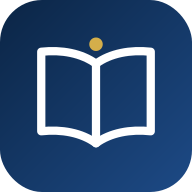
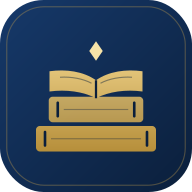
هوية «ليل الخليج»: خيط الذهب ونقش الورق، شعار الكتب، Cairo، معاينة الرابط، التنقل بين المبادئ
Claude-Session: https://claude.ai/code/session_016rQGvt25VEVtXhue9RVTd5

diff --git a/app.js b/app.js
@@ -35,7 +35,8 @@ const FONTS={
  naskh:{l:'نسخ',css:'"Noto Naskh Arabic"',u:''},
  amiri:{l:'أميري',css:'"Amiri"',u:'Amiri:wght@400;700'},
  scheh:{l:'شهرزاد',css:'"Scheherazade New"',u:'Scheherazade+New:wght@400;700'},
- plex:{l:'بلكس',css:'"IBM Plex Sans Arabic"',u:''},
+ cairo:{l:'القاهرة',css:'"Cairo"',u:''},
+ plex:{l:'بلكس',css:'"IBM Plex Sans Arabic"',u:'IBM+Plex+Sans+Arabic:wght@400;600'},
  kufi:{l:'كوفي',css:'"Noto Kufi Arabic"',u:'Noto+Kufi+Arabic:wght@400;600'},
  tajawal:{l:'تجوال',css:'"Tajawal"',u:'Tajawal:wght@400;700'}};
 function applyLook(){
@@ -50,6 +51,24 @@ function applyLook(){
   $('mename').textContent=S.name||'الإعدادات';
 }
 applyLook();
+
+// ---------- خيط الذهب (نقش السدو) ونقش الورق
+function sdUnit(){const dm=(cx,cy,r,ring)=>{const o=[];for(let x=cx-r;x<=cx+r;x++)for(let y=cy-r;y<=cy+r;y++){const d=Math.abs(x-cx)+Math.abs(y-cy);if(ring?d===r:d<=r)o.push([x,y]);}return o;};
+  let c=[];for(let x=0;x<24;x++)c.push(x%4<2?[x,0]:[x,15]);c=c.concat(dm(12,8,5,1),dm(12,8,3,1),[[12,8]]);
+  [3,21].forEach(cx=>c.push([cx,8],[cx-1,7],[cx-2,6],[cx-1,9],[cx-2,10],[cx+1,7],[cx+2,6],[cx+1,9],[cx+2,10]));return c.filter(p=>p[0]>=0&&p[0]<24);}
+let wid=0;
+function weave(host,cs){if(!host)return;const id='w'+(wid++),r=sdUnit().map(p=>`<rect x="${p[0]*cs+.6}" y="${p[1]*cs+.6}" width="${cs-1.2}" height="${cs-1.2}" fill="none" stroke="#C9A24B" stroke-width=".9"/>`).join('');
+  host.insertAdjacentHTML('afterbegin',`<svg class="weave" aria-hidden="true"><defs><pattern id="p${id}" width="${24*cs}" height="${16*cs}" patternUnits="userSpaceOnUse">${r}</pattern>
+   <linearGradient id="a${id}" x1="0" x2="1"><stop offset="0" stop-color="#fff"/><stop offset=".5" stop-color="#fff" stop-opacity=".7"/><stop offset="1" stop-color="#fff" stop-opacity=".32"/></linearGradient>
+   <linearGradient id="b${id}" x1="0" x2="1"><stop offset="0" stop-color="#fff" stop-opacity=".3"/><stop offset=".7" stop-color="#fff" stop-opacity=".16"/><stop offset="1" stop-color="#fff" stop-opacity=".45"/></linearGradient>
+   <linearGradient id="s${id}" x1="0" x2="1"><stop offset="0" stop-color="#FFE7A6" stop-opacity="0"/><stop offset=".5" stop-color="#FFE7A6" stop-opacity=".9"/><stop offset="1" stop-color="#FFE7A6" stop-opacity="0"/></linearGradient>
+   <mask id="m${id}" maskContentUnits="objectBoundingBox"><rect class="rev l" x="0" y="0" width=".5" height="1" fill="url(#a${id})"/><rect class="rev r" x=".5" y="0" width=".5" height="1" fill="url(#b${id})"/></mask></defs>
+   <g mask="url(#m${id})"><rect width="100%" height="100%" fill="url(#p${id})" opacity=".55"/></g><g mask="url(#m${id})"><rect class="shine" width="30%" height="100%" fill="url(#s${id})"/></g></svg>`);}
+function paper(){const cs=9,r=sdUnit().map(p=>`<rect class="t" x="${p[0]*cs}" y="${p[1]*cs}" width="${cs}" height="${cs}"/>`).join('');
+  document.body.insertAdjacentHTML('afterbegin',`<svg id="paper" aria-hidden="true"><defs><pattern id="pp" width="${24*cs}" height="${16*cs}" patternUnits="userSpaceOnUse">${r}</pattern></defs><g><rect width="100%" height="100%" fill="url(#pp)"/></g></svg>`);}
+paper();weave(document.querySelector('.appbar'),8);
+let wovenOnce=false;
+function playWeave(){if(wovenOnce)return;wovenOnce=true;document.querySelectorAll('.appbar,.hero').forEach(h=>{h.classList.remove('play');void h.offsetWidth;h.classList.add('play');});}
 // ---------- lock
 async function sha(t){const b=await crypto.subtle.digest('SHA-256',new TextEncoder().encode('mabadi:'+t));return [...new Uint8Array(b)].map(x=>x.toString(16).padStart(2,'0')).join('');}
 function lockScreen(){
@@ -72,8 +91,8 @@ let hiddenAt=0;document.addEventListener('visibilitychange',()=>{if(document.hid
 const META=await fetch('data/meta.json').then(r=>r.json());
 const ORDER=META.order,COLS=META.cols,TL=META.toplab,LL=META.lawlab;
 let done=0;
-const arrs=await Promise.all(ORDER.map(c=>fetch('data/'+c+'.json').then(r=>r.json()).then(a=>{done++;const l=$('loading');if(l)l.textContent=`جارٍ تحميل المكتبة… ${done} من ${ORDER.length}`;return a;})));
-const PR=arrs.flat(),BYID={},RUL={};PR.forEach(p=>BYID[p.id]=p);
+const arrs=await Promise.all(ORDER.map(c=>fetch('data/'+c+'.json').then(r=>r.json()).then(a=>{done++;const l=$('loading');if(l)l.textContent=`جارٍ تحميل المكتبة… ${done} من ${ORDER.length}`;const lb=$('loadbar');if(lb)lb.style.width=(done/ORDER.length*100)+'%';return a;})));
+const PR=arrs.flat(),BYID={},RUL={},POS={};PR.forEach((p,i)=>{BYID[p.id]=p;POS[p.id]=i;});
 PR.forEach(p=>{p.ns=norm(p.p.join(' ')+' '+(p.rule||'')+' '+(p.ttl||'')+' '+p.c.map(c=>c.raw).join(' ')+' '+p.fn.join(' '));p.sk=p.sec.join('›');
   new Set(p.c.map(c=>c.k).filter(Boolean)).forEach(k=>(RUL[k]=RUL[k]||[]).push(p.id));});
 $('sub').textContent=`${nf(PR.length)} مبدأً · ${ORDER.length} مجموعة`;
@@ -208,11 +227,20 @@ function viewHome(){
   el.innerHTML=`<div class="hero"><h1>${greet}</h1><p>ابحث في ${nf(PR.length)} مبدأ من مبادئ محكمة التمييز، حرفيًا كما في مصادرها.</p>
    <form class="sbox" id="hsf">${svg('search')}<input id="hq" type="search" placeholder="كلمة، عبارة، رقم طعن أو مادة…" autocomplete="off" enterkeyhint="search">${micBtn('hq')}<button class="btn primary" type="submit">بحث</button></form>
    <div class="quick">${(QH.length?QH.slice(0,4).map(q=>`<button class="chip" data-q="${esc(q)}">${svg('clock')}${esc(q)}</button>`):[]).join('')}${tops.map(t=>`<button class="chip" data-f="tp" data-v="${t}">${esc(TL[t][1])}</button>`).join('')}</div></div>
+   <div class="homegrid"><nav class="homenav" aria-label="التنقل">
+    <button class="navcard primary" data-go="#/search"><span class="ic">${svg('search')}</span><span><b>البحث</b><small>في ${nf(PR.length)} مبدأً</small></span></button>
+    <button class="navcard" data-go="#/index/topics"><span class="ic">${svg('book')}</span><span><b>الفهرس</b><small>الموضوعات والقوانين والكتب</small></span></button>
+    <button class="navcard" data-go="#/saved"><span class="ic">${svg('star')}</span><span><b>المحفوظات</b><small>مجلداتك وملاحظاتك</small></span></button>
+    <button class="navcard" data-go="#/report"><span class="ic">${svg('report')}</span><span><b>التقارير</b><small>طريقة الاستخراج والتحقق</small></span></button>
+    <button class="navcard" data-a2="settings"><span class="ic">${svg('gear')}</span><span><b>الإعدادات</b><small>الخط والمظهر والقفل</small></span></button>
+   </nav><div>
    <h2>مبدأ اليوم</h2><div class="card daily"><div class="lbl">${svg('star')} ${esc(COLS[dp.col].title)} — ${dp.n}</div><div class="text">${esc(dp.p.join(' '))}</div><ul class="cits">${dp.c.map(c=>`<li>${esc(c.raw)}</li>`).join('')}</ul><button class="btn" data-go="#/p/${dp.id}">${svg('open')}فتح المبدأ</button></div>
    ${recent.length?`<h2>فتحتها مؤخرًا</h2><div class="hrow">${recent.map(mini).join('')}</div>`:''}
    <h2>تصفح حسب الموضوع</h2><div class="grid g3">${FAMS.map(famTile).join('')}</div>
    <h2>الكتب والمجموعات</h2><div class="grid g3">${ORDER.map(bookTile).join('')}</div>
-   <h2>المكتبة بالأرقام</h2><div class="stats"><div class="stat card"><b>${nf(PR.length)}</b><span>مبدأ</span></div><div class="stat card"><b>${nf(Object.keys(RUL).length)}</b><span>حكمًا مفهرسًا</span></div><div class="stat card"><b>${ORDER.length}</b><span>مجموعة</span></div><div class="stat card"><b>${LORD.length}</b><span>قانونًا مُحالًا إليه</span></div></div>`;
+   <h2>المكتبة بالأرقام</h2><div class="stats"><div class="stat card"><b>${nf(PR.length)}</b><span>مبدأ</span></div><div class="stat card"><b>${nf(Object.keys(RUL).length)}</b><span>حكمًا مفهرسًا</span></div><div class="stat card"><b>${ORDER.length}</b><span>مجموعة</span></div><div class="stat card"><b>${LORD.length}</b><span>قانونًا مُحالًا إليه</span></div></div>
+   </div></div>`;
+  weave(el.querySelector('.hero'),8);
   $('hsf').onsubmit=e=>{e.preventDefault();doSearch($('hq').value);};
 }
 const maxFam=()=>Math.max(...Object.values(famcount));
@@ -292,6 +320,8 @@ function bookPage(el,c){const C=COLS[c];if(!C){el.innerHTML='<div class="empty">
   el.innerHTML=`<div class="crumbs"><button data-go="#/index/books">الكتب</button>›<span>${esc(C.name)}</span></div><div class="vh"><h2>${esc(C.title)}</h2><button class="btn primary" data-f="col" data-v="${c}">كل المبادئ (${nf(C.n)})</button></div><div class="card tree" style="padding:10px 12px">${tree(root,'',0)}</div>`;
   el.querySelector('.tree').onclick=e=>{const b=e.target.closest('[data-sec]');if(!b)return;Object.assign(F,{q:'',col:c,tp:'',ch:'',lw:'',art:'',rv:false,sec:b.dataset.sec});go('#/search');};}
 // ---------- ITEM & RULING
+function pnav(p){const i=POS[p.id],a=PR[i-1],b=PR[i+1];const ok=q=>q&&q.col===p.col;
+  return `<div class="pn no-print">${ok(a)?`<button class="btn" data-go="#/p/${a.id}">${svg('back')}<span>السابق: ${a.n}</span></button>`:'<span></span>'}${ok(b)?`<button class="btn" data-go="#/p/${b.id}"><span>التالي: ${b.n}</span><svg class="i" viewBox="0 0 24 24" style="transform:scaleX(-1)"><path d="${IC.back}"/></svg></button>`:''}</div>`;}
 function viewItem(id){const el=$('v-item'),p=BYID[id];
   if(!p){el.innerHTML=`<div class="empty">لا يوجد مبدأ بالمعرّف ${esc(id)}.</div>`;return;}
   HIST=[id,...HIST.filter(x=>x!==id)].slice(0,30);LS.set('hist',HIST);
@@ -300,6 +330,7 @@ function viewItem(id){const el=$('v-item'),p=BYID[id];
   el.innerHTML=`<div class="vh"><button class="btn" data-back>${svg('back')}رجوع</button><h2>${esc(COLS[p.col].title)} — ${p.n}</h2><button class="btn" data-print>${svg('print')}طباعة</button></div>
    <div class="list" data-main="1">${card(p,null,{page:1,open:1})}</div>
    <div class="card inline-src"><h3 style="margin-top:0">صفحة المصدر (${printed(p).join('–')})</h3>${pagesHTML(p)}</div>
+   ${pnav(p)}
    ${rel.length?`<h2>الحكم نفسه في مجموعات أخرى (${rel.length})</h2><div class="list">${rel.map(q=>card(q,null)).join('')}</div>`:''}`;
   wirePages(el);}
 function viewRuling(key){const el=$('v-item'),ids=RUL[key]||[],[ap,ses]=key.split('@');
@@ -441,5 +472,8 @@ document.addEventListener('click',e=>{const t=e.target;
   const cl=t.closest('[data-clr]');if(cl){F[cl.dataset.clr]=cl.dataset.clr==='rv'?false:'';syncInputs();runSearch();return;}
 });
 if('serviceWorker' in navigator)navigator.serviceWorker.register('sw.js').catch(()=>{});
-buildSearch();route();
+buildSearch();route();if(!location.hash||location.hash==='#/')playWeave();else wovenOnce=true;
+document.body.insertAdjacentHTML('beforeend',`<button class="totop" id="totop" hidden aria-label="العودة إلى الأعلى">${svg('back').replace('<svg','<svg style="transform:rotate(-90deg)"')}</button>`);
+$('totop').onclick=()=>window.scrollTo({top:0,behavior:'smooth'});
+addEventListener('scroll',()=>{$('totop').hidden=scrollY<900;},{passive:true});
 })().catch(e=>{const m=document.getElementById('main');if(m)m.innerHTML='<div class="empty">تعذّر تحميل المكتبة. أعد تحميل الصفحة.</div>';console.error(e);});

diff --git a/app.css b/app.css
@@ -1,23 +1,23 @@
 /* مبادئ التمييز — الهوية: كحلي وذهبي */
 :root{
-  --bg:#f3f6fb; --bg2:#e9eef7; --sheet:#ffffff; --ink:#0f1b2d; --muted:#5b6a82; --rule:#dbe3ef;
-  --navy:#0b2545; --navy2:#13315c; --blue:#1d5aa6; --blue-soft:#e6eefa; --gold:#b8912f; --gold-soft:#f7efd9;
-  --flag:#a15c07; --flag-soft:#fdf1dc; --ok:#1f7a4d; --mark:#ffe58a;
-  --shadow:0 1px 2px rgba(11,37,69,.06),0 6px 20px rgba(11,37,69,.06);
+  --bg:#f4f1ea; --bg2:#ece6d8; --sheet:#ffffff; --ink:#10213b; --muted:#5e6b80; --rule:#e4ddcc;
+  --navy:#0b1f3b; --navy2:#12325e; --blue:#1a4b8c; --blue-soft:#e7ecf4; --gold:#b8923a; --gold-soft:#f3ead3;
+  --flag:#a15c07; --flag-soft:#fbefd9; --ok:#1f7a4d; --mark:#ffe58a; --tile:#b8a57a; --tile-op:.12; --thread:#c9a24b;
+  --shadow:0 1px 2px rgba(11,31,59,.05),0 8px 24px rgba(11,31,59,.06);
   --f-text:"Noto Naskh Arabic","Traditional Arabic",serif;
-  --f-ui:"IBM Plex Sans Arabic","Segoe UI",Tahoma,sans-serif;
-  --f-title:"Reem Kufi","IBM Plex Sans Arabic",sans-serif;
+  --f-ui:"Cairo","Segoe UI",Tahoma,sans-serif;
+  --f-title:"Reem Kufi","Cairo",sans-serif;
   --fs:1; --lh:1.95;
   color-scheme:light;
 }
 @media (prefers-color-scheme:dark){:root:not([data-theme="light"]){
-  --bg:#0a1220; --bg2:#0f1a2d; --sheet:#121e33; --ink:#e6ecf5; --muted:#93a3bd; --rule:#223250;
-  --navy:#0a1628; --navy2:#10223d; --blue:#7fb2f0; --blue-soft:#17294a; --gold:#e0be5a; --gold-soft:#2c2513;
-  --flag:#f0b25c; --flag-soft:#33250d; --ok:#6fcf97; --mark:#6b5610; --shadow:0 1px 2px rgba(0,0,0,.3); color-scheme:dark}}
+  --bg:#0a1322; --bg2:#0f1b2e; --sheet:#121e33; --ink:#e6ecf5; --muted:#9aa9c0; --rule:#23324d;
+  --navy:#08172c; --navy2:#0f2645; --blue:#8db6ea; --blue-soft:#172a48; --gold:#d9b865; --gold-soft:#2c2513;
+  --flag:#f0b25c; --flag-soft:#33250d; --ok:#6fcf97; --mark:#6b5610; --tile:#c9a24b; --tile-op:.035; --shadow:0 1px 2px rgba(0,0,0,.3); color-scheme:dark}}
 :root[data-theme="dark"]{
-  --bg:#0a1220; --bg2:#0f1a2d; --sheet:#121e33; --ink:#e6ecf5; --muted:#93a3bd; --rule:#223250;
-  --navy:#0a1628; --navy2:#10223d; --blue:#7fb2f0; --blue-soft:#17294a; --gold:#e0be5a; --gold-soft:#2c2513;
-  --flag:#f0b25c; --flag-soft:#33250d; --ok:#6fcf97; --mark:#6b5610; --shadow:0 1px 2px rgba(0,0,0,.3); color-scheme:dark}
+  --bg:#0a1322; --bg2:#0f1b2e; --sheet:#121e33; --ink:#e6ecf5; --muted:#9aa9c0; --rule:#23324d;
+  --navy:#08172c; --navy2:#0f2645; --blue:#8db6ea; --blue-soft:#172a48; --gold:#d9b865; --gold-soft:#2c2513;
+  --flag:#f0b25c; --flag-soft:#33250d; --ok:#6fcf97; --mark:#6b5610; --tile:#c9a24b; --tile-op:.035; --shadow:0 1px 2px rgba(0,0,0,.3); color-scheme:dark}
 *{box-sizing:border-box}
 html{-webkit-text-size-adjust:100%}
 body{margin:0;background:var(--bg);color:var(--ink);font-family:var(--f-ui);font-size:15px;line-height:1.6;direction:rtl}
@@ -26,12 +26,12 @@ button{font:inherit;color:inherit}
 button:focus-visible,input:focus-visible,select:focus-visible,a:focus-visible{outline:2px solid var(--blue);outline-offset:2px}
 a{color:var(--blue)}
 /* ----- app bar */
-.appbar{background:linear-gradient(135deg,var(--navy) 0%,var(--navy2) 70%,#1b3f73 100%);color:#fff;padding-top:env(safe-area-inset-top,0px);position:relative;overflow:hidden}
+.appbar{background:linear-gradient(135deg,var(--navy) 0%,var(--navy2) 100%);color:#fff;padding-top:env(safe-area-inset-top,0px);position:relative;overflow:hidden}
 .appbar::after{content:"";position:absolute;inset:auto 0 0 0;height:3px;background:linear-gradient(90deg,transparent,var(--gold),transparent);opacity:.85}
 .appbar .in{max-width:1080px;margin:0 auto;padding:12px 16px;display:flex;align-items:center;gap:12px}
 .logo{display:flex;align-items:center;gap:10px;color:#fff;text-decoration:none;min-width:0}
 .logo img{width:40px;height:40px;border-radius:11px;box-shadow:0 0 0 1px rgba(255,255,255,.25)}
-.logo b{font-family:"Reem Kufi",sans-serif!important;font-weight:700;font-size:1.55rem;letter-spacing:0;white-space:nowrap;line-height:1.1}
+.logo b{font-family:"Reem Kufi","Cairo",sans-serif!important;font-weight:700;font-size:1.55rem;letter-spacing:0;white-space:nowrap;line-height:1.1}
 .logo small{display:block;font-size:.72rem;opacity:.75;font-family:var(--f-ui);white-space:nowrap;overflow:hidden;text-overflow:ellipsis}
 .topnav{display:flex;gap:4px;margin-inline-start:auto}
 .topnav button{border:0;background:transparent;color:#dfe8f7;padding:7px 12px;border-radius:999px;cursor:pointer;font-size:.9rem}
@@ -241,3 +241,41 @@ code{font-size:.85em;direction:ltr;unicode-bidi:isolate;background:var(--blue-so
 @media (max-width:560px){article.pr{grid-template-columns:1fr;padding:14px}.num{text-align:start;display:flex;gap:8px;align-items:baseline}.idchip{margin:0}}
 @media print{.appbar,.botnav,.searchbar,.acts,.vh .btn,.more,.toast,.hero,.no-print{display:none!important}body{background:#fff}.card{box-shadow:none;border:0;border-bottom:1px solid #999;border-radius:0}article.pr{break-inside:avoid}main{padding:0}}
 @media (prefers-reduced-motion:reduce){*{transition:none!important;animation:none!important}}
+
+/* ----- هوية «ليل الخليج»: خيط الذهب ونقش الورق */
+#paper{position:fixed;inset:0;width:100%;height:100%;z-index:0;pointer-events:none}
+#paper rect.t{fill:var(--tile)}#paper g{opacity:var(--tile-op)}
+main,.botnav,.appbar{position:relative;z-index:1}
+.botnav{position:fixed}
+svg.weave{position:absolute;inset:0;width:100%;height:100%;pointer-events:none}
+.appbar .in,.hero>*{position:relative}
+.hero{position:relative;overflow:hidden;background:linear-gradient(135deg,var(--navy2),var(--navy))}
+.rev{transform-box:fill-box}.rev.l{transform-origin:0 50%}.rev.r{transform-origin:100% 50%}
+.play .rev{animation:weave 1.1s cubic-bezier(.3,.7,.2,1) both}
+@keyframes weave{from{transform:scaleX(0)}to{transform:scaleX(1)}}
+.shine{opacity:0}.play .shine{animation:shine 1.6s .9s ease-in-out both}
+@keyframes shine{0%{opacity:0;transform:translateX(-30%)}30%{opacity:1}100%{opacity:0;transform:translateX(130%)}}
+@media (prefers-reduced-motion:reduce){.rev{animation:none!important}.shine{display:none}}
+.hero .quick .chip{border:1px solid rgba(255,255,255,.18)}
+.sbox .btn.primary{background:var(--gold);border-color:var(--gold);color:#0b1f3b;font-weight:700}
+.logo img{box-shadow:0 0 0 1px rgba(201,162,75,.45)}
+/* الرئيسية: بطاقات تنقّل كبيرة في الحاسوب */
+.homegrid{display:grid;gap:24px;margin-top:22px}
+.homenav{display:none}
+@media (min-width:1000px){.homegrid{grid-template-columns:280px minmax(0,1fr);align-items:start}.homenav{display:grid;gap:12px;position:sticky;top:16px}}
+.navcard{display:flex;align-items:center;gap:14px;padding:16px 18px;border-radius:18px;border:1px solid var(--rule);background:var(--sheet);cursor:pointer;text-align:start;box-shadow:var(--shadow);transition:border-color .15s,transform .15s}
+.navcard:hover{border-color:var(--gold);transform:translateY(-1px)}
+.navcard .ic{width:46px;height:46px;border-radius:14px;background:var(--gold-soft);color:var(--gold);display:grid;place-items:center;flex:none}
+.navcard .ic svg{width:24px;height:24px}
+.navcard b{display:block;font-size:1.05rem}.navcard small{color:var(--muted);font-size:.8rem}
+.navcard.primary{background:var(--navy2);border-color:var(--navy2);color:#fff}.navcard.primary small{color:#c9d4e6}.navcard.primary .ic{background:rgba(255,255,255,.1);color:var(--gold)}
+.homegrid>div>h2:first-child{margin-top:0}
+/* شريط التحميل */
+.loadbox{display:grid;gap:10px;justify-items:center;padding:80px 0;color:var(--muted)}
+.loadbox .bar-p{width:min(320px,80%)}
+/* السابق والتالي */
+.pn{display:flex;justify-content:space-between;gap:10px;margin-top:14px;flex-wrap:wrap}
+.pn .btn{max-width:48%;min-width:0}.pn .btn span{overflow:hidden;text-overflow:ellipsis;white-space:nowrap}
+/* زر العودة للأعلى */
+.totop{position:fixed;inset-inline-start:16px;bottom:calc(20px + env(safe-area-inset-bottom,0px));z-index:30;width:44px;height:44px;border-radius:50%;border:1px solid var(--rule);background:var(--sheet);color:var(--ink);box-shadow:var(--shadow);cursor:pointer;display:grid;place-items:center}
+@media (max-width:760px){.totop{bottom:calc(86px + env(safe-area-inset-bottom,0px))}}

diff --git a/index.html b/index.html
@@ -5,16 +5,31 @@
 <meta name="viewport" content="width=device-width,initial-scale=1,viewport-fit=cover">
 <title>مبادئ التمييز</title>
 <meta name="description" content="مكتبة مبادئ محكمة التمييز الكويتية: بحث في نصوص المبادئ حرفيًا كما في مصادرها، مع صورة الصفحة الأصلية، ويعمل دون اتصال.">
-<meta name="theme-color" content="#0b2545">
+<meta name="theme-color" content="#0b1f3b">
 <meta name="apple-mobile-web-app-capable" content="yes">
 <meta name="apple-mobile-web-app-status-bar-style" content="black-translucent">
 <meta name="apple-mobile-web-app-title" content="مبادئ التمييز">
 <link rel="manifest" href="manifest.webmanifest">
-<link rel="icon" href="icons/icon.svg" type="image/svg+xml">
-<link rel="apple-touch-icon" href="icons/icon-192.png">
+<link rel="icon" href="icons/favicon.svg" type="image/svg+xml">
+<link rel="icon" href="icons/favicon-32.png" sizes="32x32" type="image/png">
+<link rel="apple-touch-icon" href="icons/icon-180.png">
+<meta property="og:type" content="website">
+<meta property="og:site_name" content="مبادئ التمييز">
+<meta property="og:title" content="مبادئ التمييز — مكتبة مبادئ محكمة التمييز الكويتية">
+<meta property="og:description" content="32,573 مبدأً بنصها الحرفي، مع صورة الصفحة الأصلية. بحث ونسخ وطباعة، ويعمل دون اتصال.">
+<meta property="og:url" content="https://mabadi-kw.github.io/mabadi/">
+<meta property="og:image" content="https://mabadi-kw.github.io/mabadi/og.png">
+<meta property="og:image:width" content="1200">
+<meta property="og:image:height" content="630">
+<meta property="og:image:alt" content="شعار مبادئ التمييز: كتب متراكمة ذهبية على كحلي">
+<meta property="og:locale" content="ar_KW">
+<meta name="twitter:card" content="summary_large_image">
+<meta name="twitter:title" content="مبادئ التمييز">
+<meta name="twitter:description" content="مكتبة مبادئ محكمة التمييز الكويتية — 32,573 مبدأً بنصها الحرفي.">
+<meta name="twitter:image" content="https://mabadi-kw.github.io/mabadi/og.png">
 <link rel="preconnect" href="https://fonts.googleapis.com">
 <link rel="preconnect" href="https://fonts.gstatic.com" crossorigin>
-<link rel="stylesheet" href="https://fonts.googleapis.com/css2?family=Reem+Kufi:wght@700&family=IBM+Plex+Sans+Arabic:wght@400;500;600&family=Noto+Naskh+Arabic:wght@400;600&display=swap">
+<link rel="stylesheet" href="https://fonts.googleapis.com/css2?family=Reem+Kufi:wght@700&family=Cairo:wght@400;500;600;700;800&family=Noto+Naskh+Arabic:wght@400;600&display=swap">
 <link id="xfont" rel="stylesheet" href="data:text/css,">
 <link rel="stylesheet" href="app.css">
 <script>try{const s=JSON.parse(localStorage.getItem('mabadi:settings')||'{}');if(s.theme&&s.theme!=='auto')document.documentElement.dataset.theme=s.theme;}catch(_){}</script>
@@ -34,7 +49,7 @@
   </div>
 </header>
 
-<main id="main"><div class="empty" id="loading">جارٍ تحميل المكتبة…</div></main>
+<main id="main"><div class="loadbox"><span id="loading">جارٍ تحميل المكتبة…</span><div class="bar-p"><i id="loadbar"></i></div></div></main>
 
 <nav class="botnav" id="botnav">
   <button data-nav="home"><svg class="i" viewBox="0 0 24 24"><path d="M3 11l9-7 9 7v9a1 1 0 0 1-1 1h-5v-6h-6v6H4a1 1 0 0 1-1-1z"/></svg>الرئيسية</button>

diff --git a/sw.js b/sw.js
@@ -1,7 +1,7 @@
 // مبادئ التمييز — عامل الخدمة: يجعل المكتبة تعمل دون اتصال.
-const VERSION='202609300815';
+const VERSION='202609300918';
 const SHELL='mabadi-shell-'+VERSION, DATA='mabadi-data', FILES='mabadi-files', FONTS='mabadi-fonts';
-const SHELL_FILES=['./','index.html','app.js','app.css','embed.html','embed.js','manifest.webmanifest','icons/icon.svg','icons/icon-192.png','data/meta.json'];
+const SHELL_FILES=['./','index.html','app.js','app.css','embed.html','embed.js','manifest.webmanifest','icons/icon.svg','icons/favicon.svg','icons/icon-192.png','data/meta.json'];
 self.addEventListener('install',e=>{e.waitUntil(caches.open(SHELL).then(c=>c.addAll(SHELL_FILES)).then(()=>self.skipWaiting()));});
 self.addEventListener('activate',e=>{e.waitUntil(caches.keys().then(ks=>Promise.all(ks.filter(k=>k.startsWith('mabadi-shell-')&&k!==SHELL).map(k=>caches.delete(k)))).then(()=>self.clients.claim()));});
 async function networkFirst(req,cacheName){

diff --git a/embed.html b/embed.html
@@ -5,8 +5,8 @@
 <meta name="viewport" content="width=device-width,initial-scale=1">
 <title>مبادئ التمييز</title>
 <meta name="robots" content="noindex">
-<link rel="icon" href="icons/icon.svg" type="image/svg+xml">
-<link rel="stylesheet" href="https://fonts.googleapis.com/css2?family=Reem+Kufi:wght@700&family=IBM+Plex+Sans+Arabic:wght@400;500;600&family=Noto+Naskh+Arabic:wght@400;600&display=swap">
+<link rel="icon" href="icons/favicon.svg" type="image/svg+xml">
+<link rel="stylesheet" href="https://fonts.googleapis.com/css2?family=Reem+Kufi:wght@700&family=Cairo:wght@400;600;700&family=Noto+Naskh+Arabic:wght@400;600&display=swap">
 <link rel="stylesheet" href="app.css">
 <style>
 body{background:var(--bg)}
